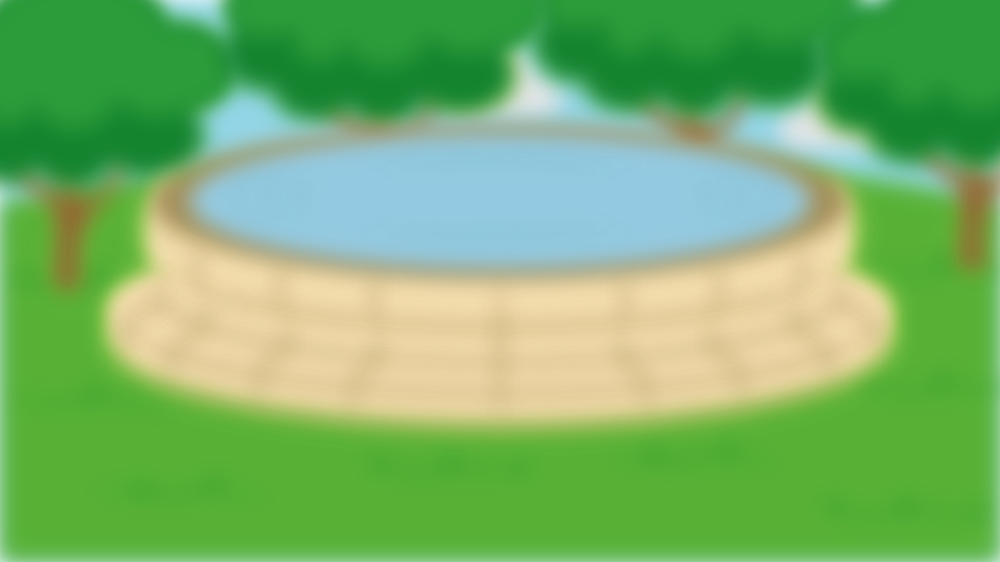
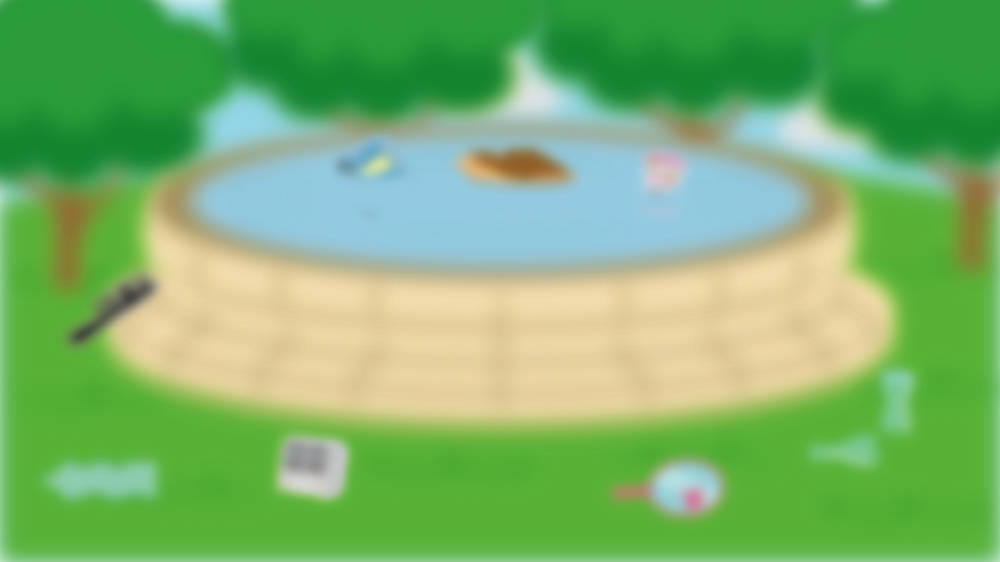
Adicionado fundo  sujo

diff --git a/js/ambiental.js b/js/ambiental.js
@@ -189,6 +189,7 @@
 			tipo++;
 			console.log(tipo);
 			movimento_lateral = inicioAleatoria;
+			movimento_lateral = limitacoes(movimento_lateral);
 			va = movimento_lateral+'px';
 			if(cor_lixo != ''){
 				$('#lixo_imagem').removeClass("lixo_"+cor_lixo);
@@ -201,9 +202,12 @@
 			$('#lixo_imagem').addClass("tipo"+tipo);
 			$('#lixo_imagem').addClass("lixo_"+cor_lixo);
 			$('#lixo').addClass("lixo_"+cor_lixo);
-			$("#lixo").css({'marginTop' : '0px', 'left' : va});
+			var left = parseInt($("#lixo_imagem").css("marginLeft").substring(1,$("#lixo_imagem").css("marginLeft").length-1));
+			var top = parseInt($("#lixo_imagem").css("marginTop").substring(1,$("#lixo_imagem").css("marginTop").length-1));
+			var soma = Math.sqrt((left*left)+(top*top))+15+ 'px';
+			$("#lixo").css({'marginTop' : soma, 'left' : va});
 			semMeios();
-			altura_lixeira = 0;
+			altura_lixeira = Math.sqrt((left*left)+(top*top))-15;
 			ambiental_contador++;	
 		}
 	}
@@ -213,18 +217,25 @@
 		if(!multi_jogadores || modo_jogo == 'juntos'){
 			
 			var inicioAleatoria = Math.floor(Math.random() * 940);	
+			inicioAleatoria = limitacoes(inicioAleatoria);
 			movimento_lateral = inicioAleatoria;
 			va = movimento_lateral+'px';
-			$("#lixo").css({'marginTop' : '100px', 'left' : va});
+			var left = parseInt($("#lixo_imagem").css("marginLeft").substring(1,$("#lixo_imagem").css("marginLeft").length-1));
+			var top = parseInt($("#lixo_imagem").css("marginTop").substring(1,$("#lixo_imagem").css("marginTop").length-1));
+			var soma = Math.sqrt((left*left)+(top*top))+15+ 'px';
+			$("#lixo").css({'marginTop' : soma, 'left' : va});
 			semMeios();
-			altura_lixeira = 100;		
+			altura_lixeira = Math.sqrt((left*left)+(top*top))-15;		
 		}
 	}
 	function limitacoes(val){
-		if(val <= 0){
-			val = 0;
-		}else if(val >= 960){
-			val = 960;
+		var left = parseInt($("#lixo_imagem").css("marginLeft").substring(1,$("#lixo_imagem").css("marginLeft").length-1));
+		var top = parseInt($("#lixo_imagem").css("marginTop").substring(1,$("#lixo_imagem").css("marginTop").length-1));
+		var soma = Math.sqrt((left*left)+(top*top))+15;
+		if(val <= 0+soma){
+			val = 0+soma;
+		}else if(val >= 960-soma){
+			val = 960-soma;
 		}
 		return val;
 	}

diff --git a/js/falas.js b/js/falas.js
@@ -908,6 +908,7 @@ function falas(){
 					if(index_dialogo == dialogo[multi_jogadores][tela_atual][ambiental_parte].length){
 						reiniciar_contador_fala();
 						trocarTela('#tela_cidade','bg_menu');
+						$("#myCanvas").removeClass("bg_parque2");
 					}else{
 						$("#dialogo").show();
 						if(multi_jogadores){
@@ -917,7 +918,7 @@ function falas(){
 						}
 						ambiental_play = false;
 						$("#myCanvas").removeClass("bg_parque_blur");
-						$("#myCanvas").addClass("bg_parque");
+						$("#myCanvas").addClass("bg_parque2");
 						$("#fala").html(dialogo[multi_jogadores][tela_atual][ambiental_parte][index_dialogo]);
 					}
 					break;

diff --git a/css/style_inicio.css b/css/style_inicio.css
@@ -158,6 +158,12 @@
 	position: absolute;
 	float: left;
 }
+.butt_voltar{
+	z-index: 1000 !important;
+}
+#lixo_imagem{
+	z-index: -2 !important;
+}
 #lixo_imagem.lixo_verde.tipo1{
 	background: url("../assets/images/fase_ambiental/Vidro\ -\ Espelho.png") !important;
 	width: 61px;

diff --git a/css/bg.css b/css/bg.css
@@ -74,6 +74,9 @@
 .bg_parque{
   background: url("../assets/images/bg_ambiental.png")
 }
+.bg_parque2{
+  background: url("../assets/images/bg_ambiental2.png")
+}
 
 .bg_parque_blur{
   background: url("../assets/images/bg_ambiental_blur.png")
